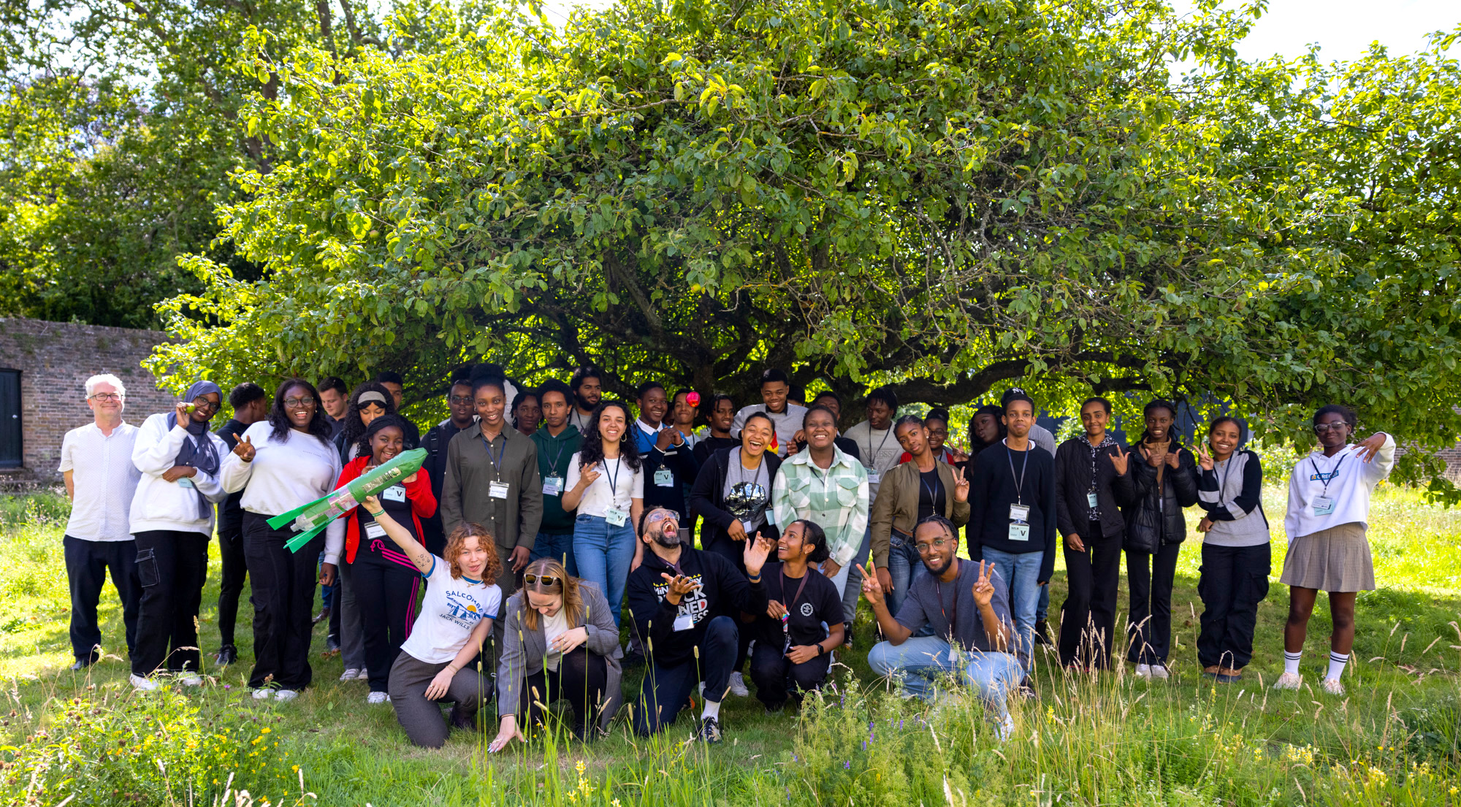
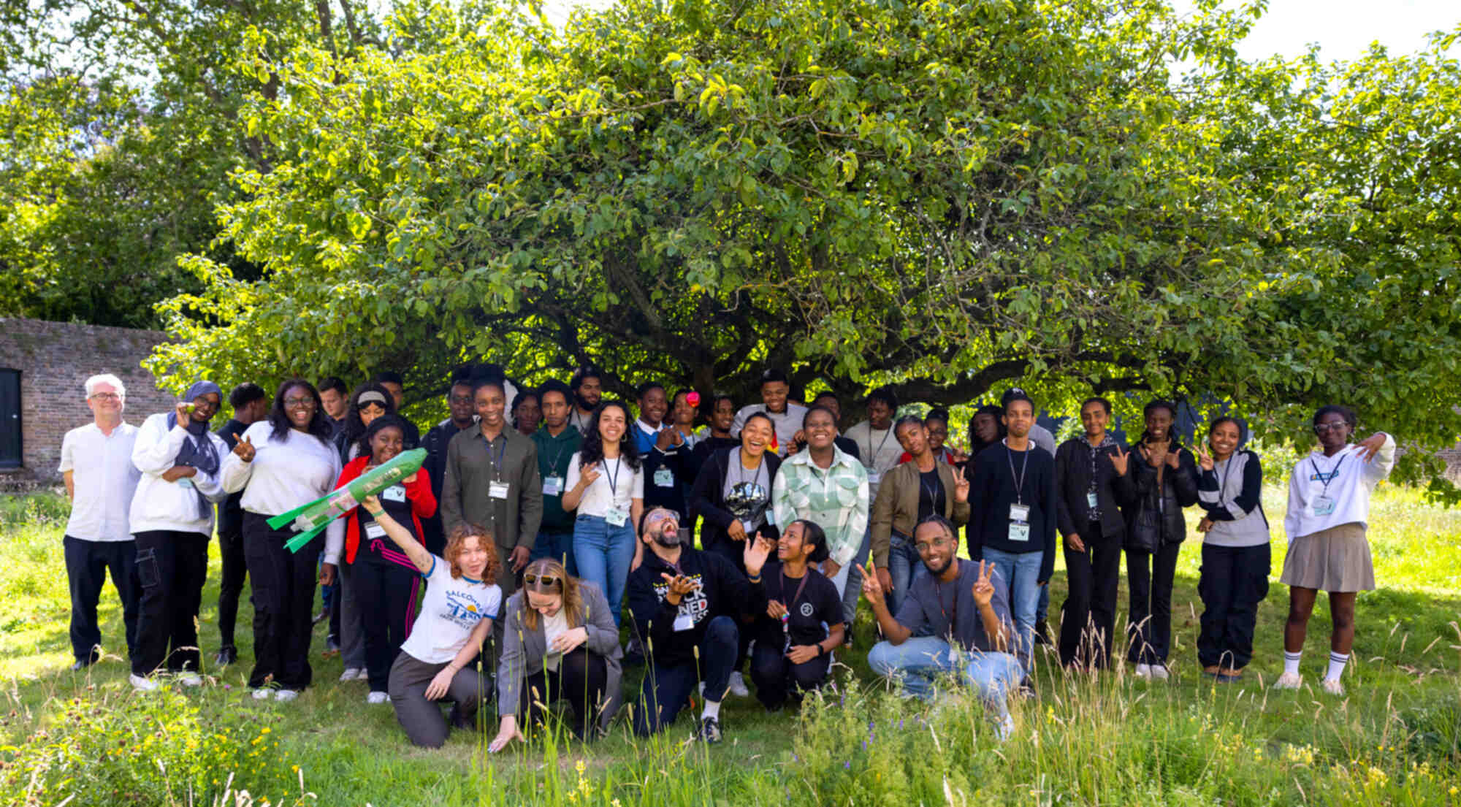
Converted RP2023 images to jpeg and reduced their quality.

diff --git a/rp2023/index.html b/rp2023/index.html
@@ -1,4 +1,4 @@
-<!DOCTYPE html>
+(<!DOCTYPE html>
 <html lang="en">
 
 <head>
@@ -90,7 +90,7 @@
     </div>
     <div class="white-div d-flex flex-column" style="align-items: center;">
       <div class="img-div" style="width: 100%;">
-        <img src="../images/rp2023/iop-group.png" class="img-responsive img-thumbnail" alt="...">
+        <img src="../images/rp2023/iop-group.jpg" class="img-responsive img-thumbnail" alt="...">
       </div>
       <p class="subtext">On Wednesday 2nd August, 2023, The Blackett Lab Family welcomed its <b>first ever</b> cohort of graduates from its flagship outreach programme, Representing Physics.</p>
       <p class="subtext">
@@ -107,17 +107,17 @@
 
         <div class="col-md-4  thumb">
             <a class="thumbnail">
-                <img class="img-responsive" src="../images/rp2023/day1-lecture.png" alt="">
+                <img class="img-responsive" src="../images/rp2023/day1-lecture.jpg" alt="">
             </a>
         </div>
         <div class="col-md-4 thumb">
             <a class="thumbnail" >
-                <img class="img-responsive" src="../images/rp2023/day1-lab.png" alt="">
+                <img class="img-responsive" src="../images/rp2023/day1-lab.jpg" alt="">
             </a>
         </div>
         <div class="col-md-4 thumb">
             <a class="thumbnail" >
-                <img class="img-responsive" src="../images/rp2023/day1-chalkboard.png" alt="">
+                <img class="img-responsive" src="../images/rp2023/day1-chalkboard.jpg" alt="">
             </a>
         </div>
       </div> 
@@ -139,17 +139,17 @@
   
     <div class="col-md-4 thumb">
         <a class="thumbnail">
-            <img class="img-responsive" src="../images/rp2023/day2-trip.png" alt="">
+            <img class="img-responsive" src="../images/rp2023/day2-trip.jpg" alt="">
         </a>
     </div>
     <div class="col-md-4 thumb">
         <a class="thumbnail" >
-            <img class="img-responsive" src="../images/rp2023/day2-measure.png" alt="">
+            <img class="img-responsive" src="../images/rp2023/day2-measure.jpg" alt="">
         </a>
     </div>
     <div class="col-md-4 thumb">
         <a class="thumbnail" >
-            <img class="img-responsive" src="../images/rp2023/day2-blf.png" alt="">
+            <img class="img-responsive" src="../images/rp2023/day2-blf.jpg" alt="">
         </a>
     </div>
   </div>
@@ -168,7 +168,7 @@
 
     <div class="col-md-5 thumb" >
         <a class="thumbnail">
-            <img class="img-responsive img-rocket" src="../images/rp2023/day2-rocket.png" alt="">
+            <img class="img-responsive img-rocket" src="../images/rp2023/day2-rocket.jpg" alt="">
         </a>
         <p class="subtext">Oh, and we also built and launched huge water-rockets, to develop students' collaborative problem-solving but really to have some fun!  </p> 
 
@@ -193,13 +193,13 @@
         <div class="row justify-content-md-center" style="margin-top: 5%;">
           <div class="col-md-4 thumb" >
             <a class="thumbnail">
-                <img class="img-responsive" src="../images/rp2023/day3-morning.png" alt="">
+                <img class="img-responsive" src="../images/rp2023/day3-morning.jpg" alt="">
             </a>
     
         </div> 
           <div class="col-md-8 thumb" >
               <a class="thumbnail">
-                  <img class="img-responsive" src="../images/rp2023/day3-group.png" alt="">
+                  <img class="img-responsive" src="../images/rp2023/day3-group.jpg" alt="">
               </a>
           </div> 
       
